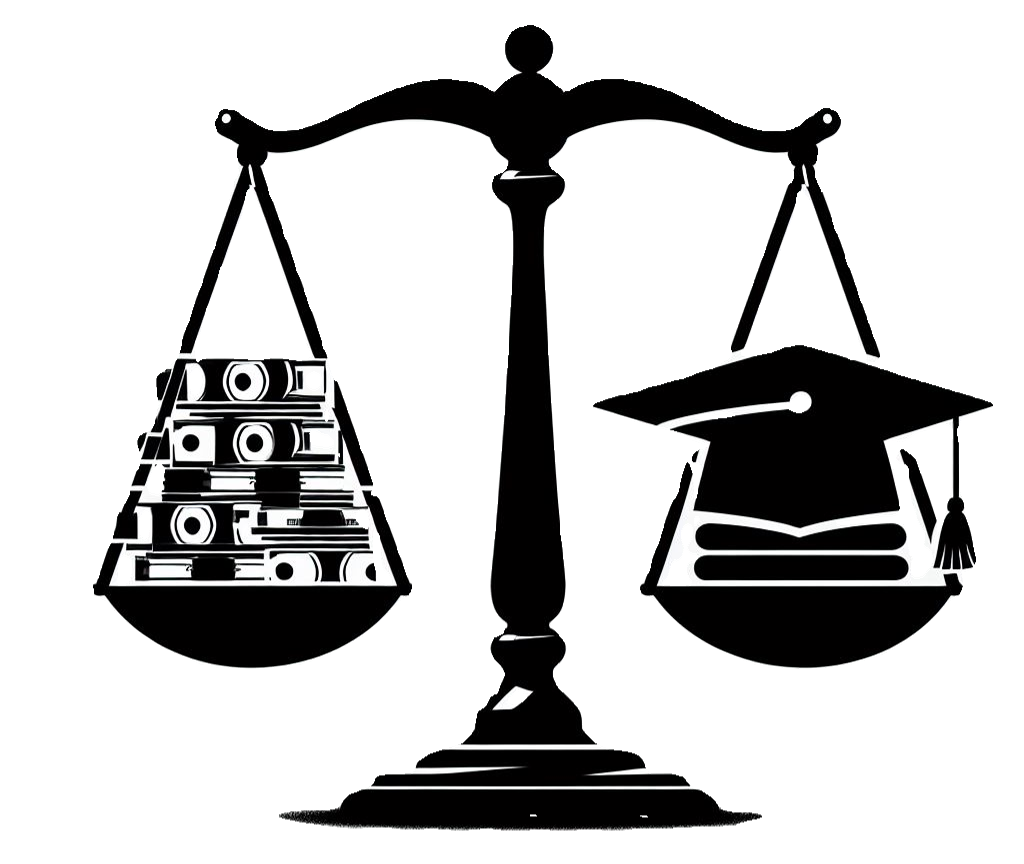
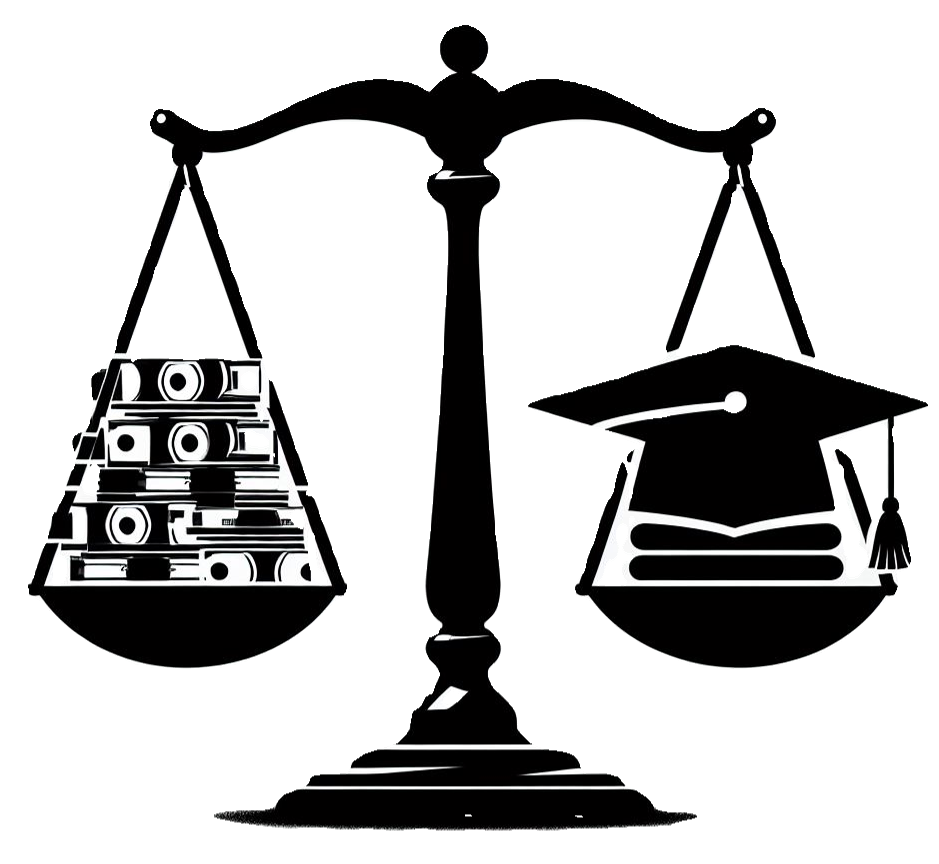
Resizing AKM images

diff --git a/content/research/_index.md b/content/research/_index.md
@@ -48,7 +48,7 @@ summary: Taught at Boston University and University of Costa Rica
         </div>
     </div>
     <div class="ml-3">
-        <img src="/research/images/akm_image.png" height="200" width="300" alt="Do Elite Universities Overpay their Faculty" loading="lazy">
+        <img src="/research/images/akm_image_resized.png" height="188" width="173" alt="Do Elite Universities Overpay their Faculty" loading="lazy">
     </div>
 </div>
 
